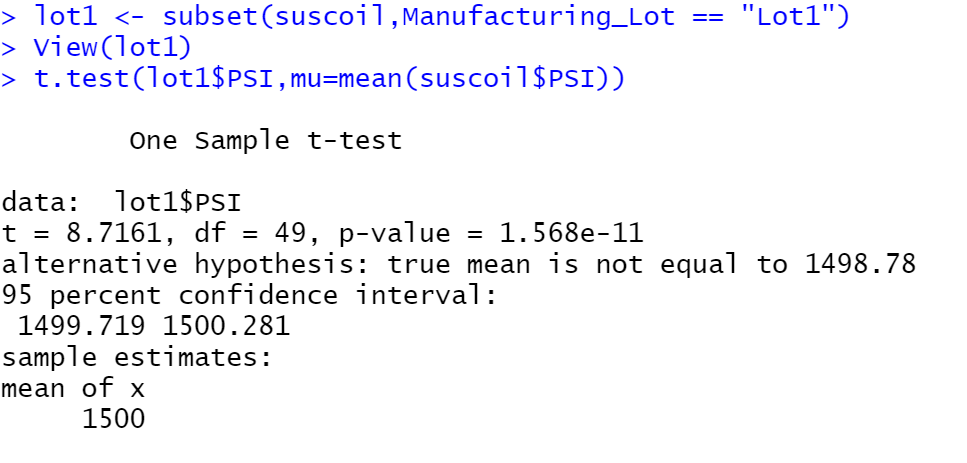
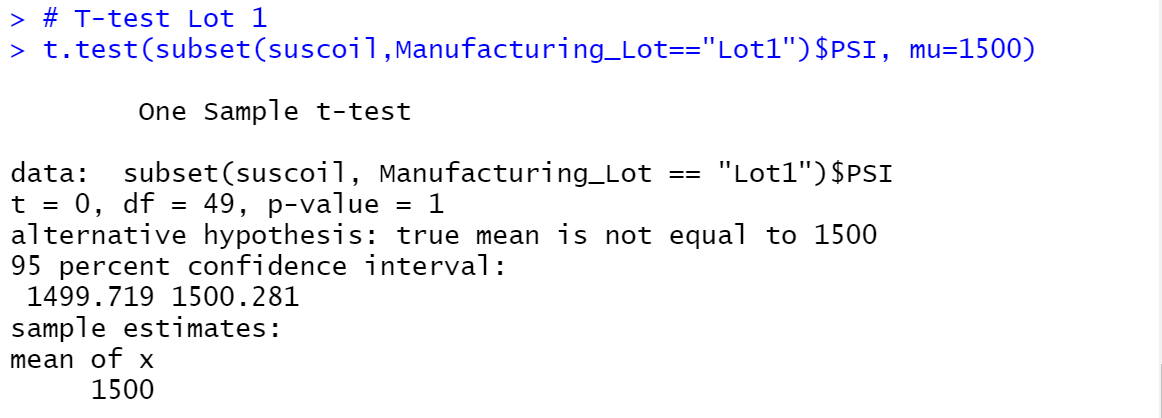
update for submission

diff --git a/README.md b/README.md
@@ -11,7 +11,7 @@ The purpose of this project is to review production data for insights into the m
 
 **Which variables/coefficients provided a non-random amount of variance to the mpg values in the dataset?**
 
-In the summary output, the results show that the intercept, vehicle length, and ground clearance are statistically likely to provide non-random amount of variance to mpg values, as the Pr(>|t|) values are less than 0.05%. Given that the intercept is statistically significant, there may be other variables or factors that contribute to the mpg variation that were not included in the data. 
+In the summary output, the results show that vehicle length, and ground clearance are statistically likely to provide non-random amount of variance to mpg values, as the Pr(>|t|) values are less than 0.05%. Given that the intercept is also statistically significant, there may be other variables or factors that contribute to the mpg variation that were not included in the data. 
 
 **Is the slope of the linear model considered to be zero? Why or why not?**
 
@@ -33,15 +33,24 @@ In total, the manufacturing data meets this specification. However, lot 3 does n
 
 ## T-Tests on Suspension Coils
 
+**PSI of all manufacturing lots**
+![d3_alllots_ttest](/images/d3_alllots_ttest.png)
+The p-value of 0.06028 is greater than a significance level of 0.05%. Therefore, there is not sufficient evidence to reject the null hypothesis. The PSI across of all manufacturing lots is statistically similar to the population mean of 1,500 PSI.  
+
+**PSI of lot 1**
 ![d3_lot1_ttest](/images/d3_lot1_ttest.png)
-The p-value 1.568e-11 is less than the significance level of 0.05%, therefore there is sufficient evidence to reject the null hypothesis. The mean of the lot 1 PSI values and the population mean are statistically different. 
+The p-value of 1 is greater than a significance level of 0.05%. Therefore, there is not sufficient evidence to reject the null hypothesis. The PSI across of manufacturing lot 1 is statistically similar to the population mean of 1,500 PSI.  
 
+**PSI of lot 2**
 ![d3_lot2_ttest](/images/d3_lot2_ttest.png)
-The p-value 0.0005911 is less than the significance level of 0.05%, therefore there is sufficient evidence to reject the null hypothesis. The mean of the lot 2 PSI values and the population mean are statistically different. 
+The p-value of 0.6072 is greater than a significance level of 0.05%. Therefore, there is not sufficient evidence to reject the null hypothesis. The PSI across of manufacturing lot 2 is statistically similar to the population mean of 1,500 PSI. 
 
+**PSI of lot 3**
 ![d3_lot3_ttest](/images/d3_lot3_ttest.png)
-The p-value 0.1589 is greater than the significance level of 0.05%, therefore there is not sufficient evidence to reject the null hypothesis. The mean of the lot 3 PSI values and the population mean are statistically similar. 
+The p-value 0.04168 is less than a significance level of 0.05%. Therefore, there is sufficient evidence to reject the null hypothesis. The PSI across of manufacturing lot 3 is statistically different to the population mean of 1,500 PSI. 
 
 ## Study Design: MechaCar vs Competition
 
-In a statistical study to measure MechaCar performance against competition, metrics should include safety ratings and fuel efficiency (mpg).
+In a statistical study to measure MechaCar performance against competition, metrics should include safety ratings and fuel efficiency (mpg). The null hypothesis would be there is no statistical difference between MechaCar and its competition. The alternative hypothesis would be there is a statistical difference. 
+
+Two-sample t-tests could be calculated to compare the safety ratings and fuel efficiency. This statistical test should be used because it compares the distribution means from two samples. The data needed to compare safety ratings could be extracted from different car review sites. Depending on how ratings are provided, this data may have to be transformed to fit similar scales. The data to compare fuel efficiency could be provided from engineering tests performed to calculate miles per gallon. 
